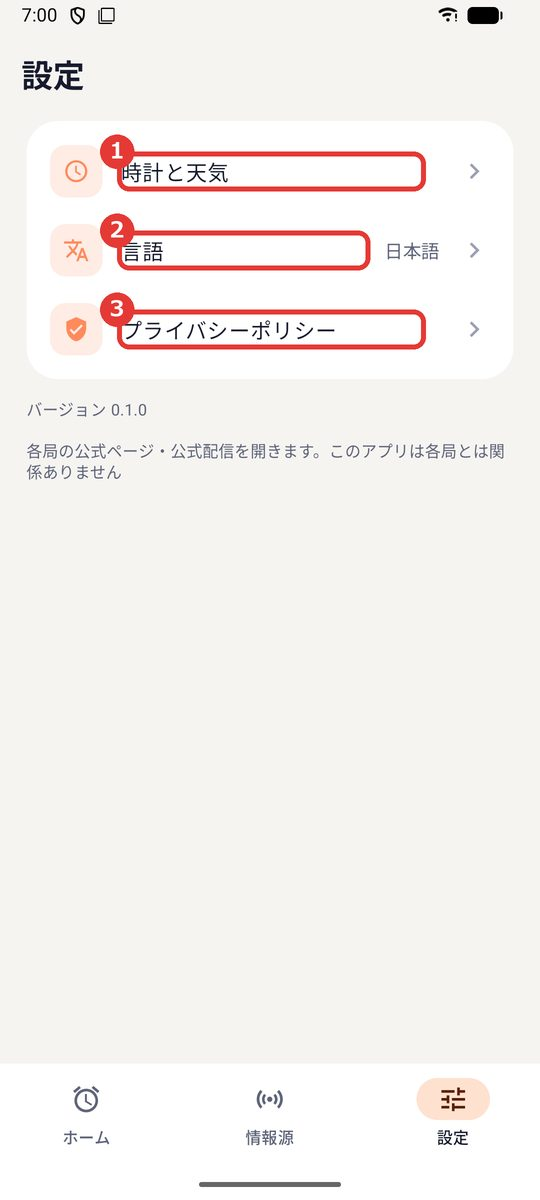
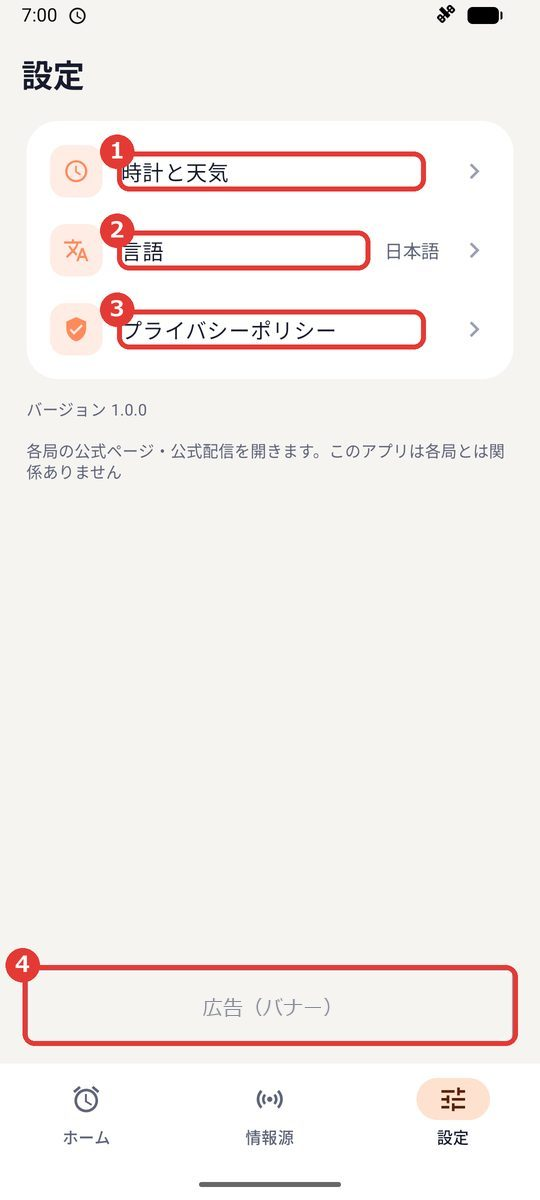
おはようニュースタイマー：広告（1.1.0）をプライバシーポリシーと使い方に足す
- プライバシーポリシーの「広告」を、1.1.0 から AdMob のバナーを出す内容に直した（出す画面・集める情報・同意の変え方）。権限の表に広告 ID を足した（日本語・英語）
- 使い方の「再生の画面」に、止めたあとの画面の説明と画像を足した
- 使い方の「設定」の画像を撮り直し、広告と「広告のプライバシー設定」の説明を足した

diff --git a/morning-news/privacy.html b/morning-news/privacy.html
@@ -9,8 +9,8 @@
 <body>
 <p><a href="./">おはようニュースタイマー</a></p>
 <h1>おはようニュースタイマー プライバシーポリシー</h1>
-<p>制定日：2026年11月25日<br>改定日：2026年11月26日（DLNA サーバーの再生と、天気の表示を追加）</p>
-<p>DNGG-studio（以下「運営者」）は、Android アプリ「おはようニュースタイマー」（以下「本アプリ」）での利用者の情報の扱いを、次のとおり定めます。本アプリは、決めた時刻に、利用者が選んだニュースのページ・動画・音声の再生を始めるアプリです。<strong>運営者はサーバーを持たず、利用者の情報を運営者のもとに集めることはありません。</strong></p>
+<p>制定日：2026年11月25日<br>改定日：2026年11月27日（バージョン 1.1.0 からの広告を追加）</p>
+<p>DNGG-studio（以下「運営者」）は、Android アプリ「おはようニュースタイマー」（以下「本アプリ」）での利用者の情報の扱いを、次のとおり定めます。本アプリは、決めた時刻に、利用者が選んだニュースのページ・動画・音声の再生を始めるアプリです。<strong>運営者はサーバーを持たず、利用者の情報を運営者のもとに集めることはありません。</strong>広告（バージョン 1.1.0 から）による情報の扱いは 4. のとおりです。</p>
 
 <h2>1. 端末の中に保存する情報</h2>
 <p>次の情報を利用者の端末の中だけに保存します。端末のバックアップの対象にはせず、本アプリを削除すると消えます。</p>
@@ -32,6 +32,7 @@
 <tr><td>ほかのアプリの上に表示（SYSTEM_ALERT_WINDOW）</td><td>ほかのアプリの使用中に、時刻に再生の画面を出すため（任意）</td></tr>
 <tr><td>通知（POST_NOTIFICATIONS）</td><td>時刻のお知らせを出すため</td></tr>
 <tr><td>起動時の実行（RECEIVE_BOOT_COMPLETED）</td><td>端末を再起動したあとに、予定を予約し直すため</td></tr>
+<tr><td>広告 ID（AD_ID）、ネットワークの状態など</td><td>広告の SDK が使う（バージョン 1.1.0 から）</td></tr>
 </table>
 <p>天気の場所は、利用者が名前で探して選びます。端末の位置情報は使いません。</p>
 <p>位置情報・連絡先・マイク・カメラ・ストレージの権限は使いません。</p>
@@ -50,10 +51,13 @@
 <p>利用者が足した URL が http:// で始まるときと、DLNA サーバーとのあいだでは、通信は暗号化されません。</p>
 
 <h2>4. 広告</h2>
-<p>本アプリ自体は広告を表示しません。開いたページの中には、そのサイトの広告が表示されることがあります。本アプリに広告を入れる場合は、このポリシーを改定してお知らせします。</p>
+<p>本アプリはバージョン 1.1.0 から、広告の表示に Google AdMob を使用します。広告を表示するのは、再生を自分で止めたあとの画面と、設定の画面だけです。再生中やロック画面の上には表示しません（バージョン 1.0.0 は広告を表示しません）。</p>
+<p>AdMob は、広告 ID などの端末識別子、IP アドレス（おおよその地域が推定されることがあります）、広告の表示や操作の情報などを、広告の配信、測定、不正防止のために収集する場合があります。予定・情報源・NAS や DLNA サーバーの情報・天気の場所は広告に渡しません。広告の SDK による位置情報の収集も切ってあります。Google による情報の扱いは、<a href="https://policies.google.com/technologies/partner-sites">Google のポリシー</a>をご覧ください。</p>
+<p>同意が必要な地域では、起動時に確認画面を表示します。同意の内容は、設定画面の「広告のプライバシー設定」から変更できます。広告 ID は、端末の設定から削除できる場合があります。</p>
+<p>開いたページの中には、そのサイトの広告が表示されることがあります。これは本アプリの広告ではなく、各サイトが扱います。</p>
 
 <h2>5. 第三者への提供</h2>
-<p>運営者が利用者の情報を第三者に提供することはありません（法令に基づく場合を除きます）。運営者は利用者の情報を受け取っていないため、提供することもできません。</p>
+<p>運営者が利用者の情報を第三者に提供することはありません（法令に基づく場合を除きます）。運営者は利用者の情報を受け取っていないため、提供することもできません。広告の SDK が直接集める情報は、4. のとおりです。</p>
 
 <h2>6. 情報の削除</h2>
 <ul>
@@ -70,8 +74,8 @@
 <hr>
 <div lang="en">
 <h1>Good Morning News Timer Privacy Policy</h1>
-<p>Effective: November 25, 2026<br>Updated: November 26, 2026 (added playback from DLNA servers and the weather display)</p>
-<p>This policy explains how DNGG-studio ("we") handles your information in the Android app "Good Morning News Timer" ("the app"). The app starts playing news pages, video or audio you choose at the time you set. <strong>We run no servers, and we never collect your information.</strong></p>
+<p>Effective: November 25, 2026<br>Updated: November 27, 2026 (added ads from version 1.1.0)</p>
+<p>This policy explains how DNGG-studio ("we") handles your information in the Android app "Good Morning News Timer" ("the app"). The app starts playing news pages, video or audio you choose at the time you set. <strong>We run no servers, and we never collect your information.</strong> For ads (from version 1.1.0), see section 4.</p>
 
 <h2>1. Information stored on your device</h2>
 <p>The following is stored only on your device. It is excluded from device backup and is deleted when you uninstall the app.</p>
@@ -93,6 +97,7 @@
 <tr><td>Display over other apps (SYSTEM_ALERT_WINDOW)</td><td>To show the player on time while you use other apps (optional)</td></tr>
 <tr><td>Notifications (POST_NOTIFICATIONS)</td><td>To notify you at the set time</td></tr>
 <tr><td>Run at startup (RECEIVE_BOOT_COMPLETED)</td><td>To schedule playback again after the device restarts</td></tr>
+<tr><td>Advertising ID (AD_ID), network state, etc.</td><td>Used by the ads SDK (from version 1.1.0)</td></tr>
 </table>
 <p>The app does not use location, contacts, microphone, camera or storage permissions.</p>
 
@@ -110,10 +115,13 @@
 <p>If a URL you add starts with http://, or the source is a DLNA server, the connection is not encrypted.</p>
 
 <h2>4. Ads</h2>
-<p>The app itself shows no ads. Pages opened in the app may contain the site's own ads. If we add ads to the app, we will update this policy.</p>
+<p>From version 1.1.0, the app uses Google AdMob to show ads. Ads appear only on the screen shown after you stop playback yourself, and on the settings screen. They never appear during playback or over the lock screen (version 1.0.0 shows no ads).</p>
+<p>AdMob may collect device identifiers such as the advertising ID, your IP address (which may be used to estimate your general area), and information about how ads are shown and used, for ad delivery, measurement and fraud prevention. Your schedules, sources, NAS or DLNA server details and weather place are not passed to ads, and location collection by the ads SDK is turned off. See <a href="https://policies.google.com/technologies/partner-sites">Google's policy</a> for how Google uses this information.</p>
+<p>Where consent is required, the app asks for it at startup. You can change your choice under "Ad privacy settings" in the settings screen. You may be able to delete the advertising ID in your device settings.</p>
+<p>Pages opened in the app may contain the site's own ads. These are not the app's ads and are handled by each site.</p>
 
 <h2>5. Sharing with third parties</h2>
-<p>We do not provide your information to third parties, except where required by law. We never receive your information, so we cannot provide it.</p>
+<p>We do not provide your information to third parties, except where required by law. We never receive your information, so we cannot provide it. For information the ads SDK collects directly, see section 4.</p>
 
 <h2>6. Deleting data</h2>
 <ul>

diff --git a/morning-news/manual.html b/morning-news/manual.html
@@ -11,7 +11,7 @@
 <p><a href="./">おはようニュースタイマー の紹介ページへ戻る</a></p>
 <h1>おはようニュースタイマー の使い方</h1>
 <p>おはようニュースタイマー（Good Morning News Timer）は、決めた時刻にニュースの再生を自動で始めるアプリです。</p>
-<p class="note">この説明は バージョン 1.0.0 の画面に合わせています（2026年11月27日。0.1.0 から画面は変わっていません）。画面はこれから変わることがあります。画像の赤い枠と番号は、説明の番号と同じところです。</p>
+<p class="note">この説明は バージョン 1.1.0 の画面に合わせています（2026年11月27日。再生を止めたあとの画面と広告を追加。1.0.0 にはありません）。画面はこれから変わることがあります。画像の赤い枠と番号は、説明の番号と同じところです。</p>
 
 <ol class="toc">
 <li><a href="#start">はじめに（許可）</a></li>
@@ -82,6 +82,19 @@
 <ul>
 <li>45 秒ほど待っても音が出ないときは、自動で次の情報源に進みます</li>
 <li>予定の情報源がどれも再生できないときは、代わりにアラームを鳴らします。停止のボタンで止まります</li>
+</ul>
+
+<h3>止めたあとの画面</h3>
+<img class="shot" src="images/manual/stopped.jpg" width="540" height="1200" loading="lazy" alt="再生を止めたあとの画面">
+<p>停止のボタンで止めると、いまの時刻と次の再生の時刻が出ます。</p>
+<ol>
+<li><strong>アプリを開く</strong>：ホームの画面を開きます</li>
+<li><strong>閉じる</strong>：この画面を閉じます。何もしなければ 2 分で閉じます</li>
+<li>広告が出ます</li>
+</ol>
+<ul>
+<li>ロック画面の上で止めたときや、自動で止まったとき・最後まで再生したときは、この画面を出さずに閉じます</li>
+<li>再生中とロック画面の上には、広告を出しません</li>
 </ul>
 
 <h2 id="sources">5. 情報源</h2>
@@ -200,7 +213,9 @@
 <li><strong>「時計と天気」</strong>：<a href="#display">9.</a> へ</li>
 <li><strong>「言語」</strong>：12 言語から選べます。「自動」なら端末の言語です</li>
 <li><strong>「プライバシーポリシー」</strong>：このサイトのページを開きます</li>
+<li>広告が出ます</li>
 </ol>
+<p>同意が必要な地域では、「広告のプライバシー設定」の行も出ます。広告の同意を変えられます。</p>
 
 <h2 id="faq">11. よくある質問</h2>
 <h3>時刻になっても始まりません</h3>
